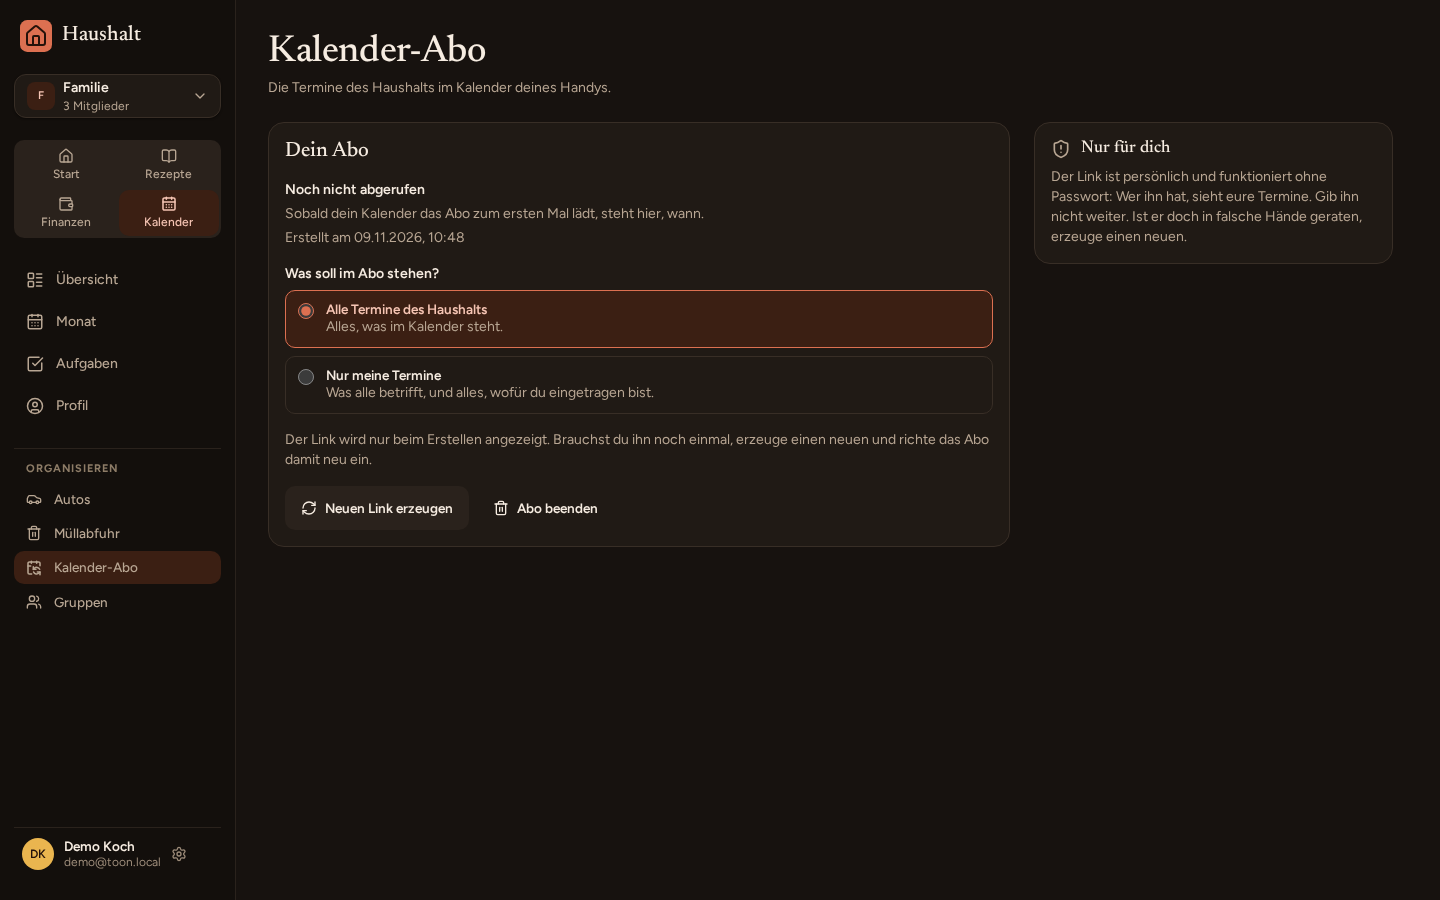
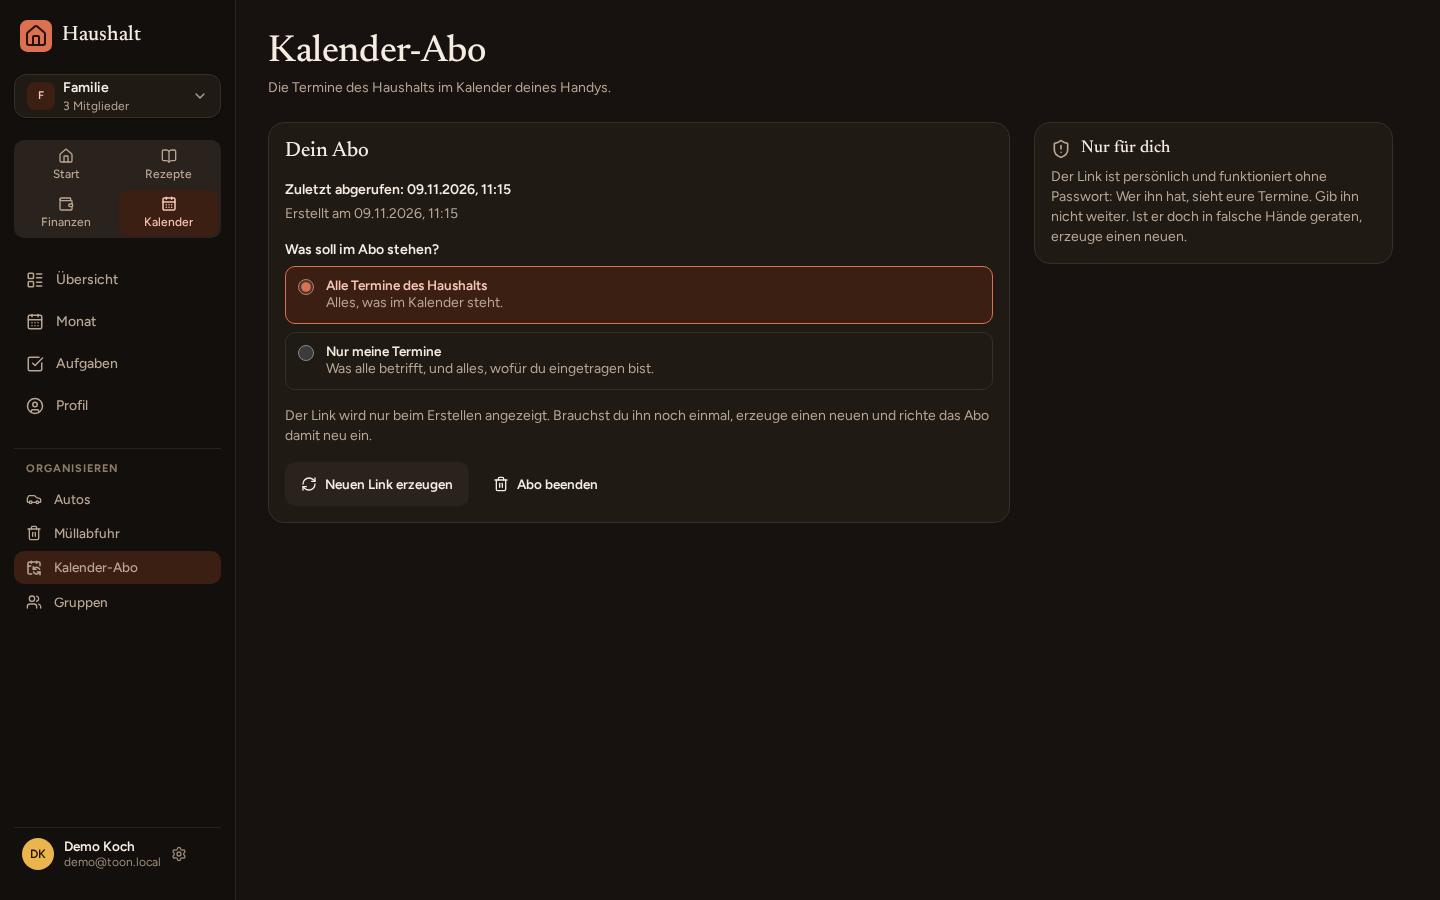
M9-ui: the UI check (plan section 9.7, item 12 of section 10), the re-shot screenshots plus the overview

Changed region(s): [[0.1875, 0.1867, 0.6875, 0.5911], [0.3438, 0.5289, 0.4062, 0.5911]]

diff --git a/docs/plans/m9-calendar-feed.md b/docs/plans/m9-calendar-feed.md
@@ -543,6 +543,52 @@ in 224 files** (84.2 s; +11 over section 9.5: the nine table rows and two route 
 leftover **148** (none in the calendar; exit 1 by design); `bun run build` exit 0, **102 chunks, 470.31 kB** of gzipped JS (unchanged,
 the fixes are API-only); `git status --porcelain repos/` empty.
 
+### 9.7 UI check (M9-ui, 2026-11-09)
+
+Scratch DB `file:<scratchpad>/ui/m9ui.db` (`NODE_ENV=development bun run seed` exit 0), `PUBLIC_API_URL="" bun run build` exit 0, the
+API with `WEB_DIST_DIR=./apps/web/dist`, `API_PORT=3902`, `WEB_ORIGIN=http://127.0.0.1:3902` (background, log, stopped by pid).
+Playwright 1.61.0 and ical.js 2.2.1 in a scratch directory outside the repo (`bun add` log `exit=0`), the installed
+`chromium_headless_shell-1248`, `locale: "de-DE"`, clipboard permissions granted, the login through `fetch("/api/auth/login")` from
+`/api/health` with one `storageState` per user.
+
+- **Flow as `demo@toon.local` (1440):** Kalender enabled through the Home card's "Aktivieren"; the Übersicht row "Kalender-Abo" and
+  the sidebar item (Organisieren) both land on `/calendar/feed`; "Nur meine Termine" + "Link erstellen" gives a field
+  `http://127.0.0.1:3902/api/calendar/feed/<43 chars>.ics`, the GET says `scope: "mine"`, the "Mit iPhone-Kalender verbinden" href is
+  `webcal://127.0.0.1:3902/api/calendar/feed/<token>.ics`; "Kopieren" puts exactly the URL on the clipboard with the toast "Link
+  kopiert."; the scope radio to "Alle Termine" saves (`scope: "all"`, toast); the URL fetched without a cookie answers `200
+  text/calendar; charset=utf-8`; "Neuen Link erzeugen" opens its confirm, and after it the OLD URL is `404` and the new one `200`;
+  "Abo beenden" (confirm) brings back "Link erstellen", the URL is `404` and the GET `{ feed: null }`. No console error.
+- **ical.js (scope all, plain `fetch`, no cookie):** parses without an error, one `VTIMEZONE` (`Europe/Berlin`) registered and
+  resolved by all 105 timed events (`Zahnarzt` 10:30 local = 09:30Z); one task occurrence marked done and one event occurrence
+  skipped first: 300 `VEVENT`s with 300 unique UIDs equal, UID for UID, the 300 non-skipped of the 301 occurrences `GET
+  …/calendar/occurrences` answers for `[2026-10-10, 2027-11-09]` (today in Berlin −30/+365), the skipped one absent, the done one
+  `✓ Blumen gießen · Demo Koch`; all 195 all-day events have `DATE` start and end.
+- **Scope mine as `kim@toon.local`** (own login, own link through the screen): `X-WR-CALNAME:Haushalt · Familie (meine Termine)`, 165
+  `VEVENT`s, equal to the occurrences that name nobody or Kim (tasks by the occurrence's resolved assignee, the 82 occurrences
+  assigned to someone else all absent) and equal to `?memberId=<kim>` minus the skipped one. After the fetch both screens show
+  "Zuletzt abgerufen: 09.11.2026, 11:14".
+- **Platform order:** iPhone UA and desktop: iPhone und iPad · Android und Samsung · Google Kalender im Browser · Outlook und Mac;
+  Android UA (`Android 14; SM-S921B`): Android und Samsung · Google Kalender im Browser · iPhone und iPad · Outlook und Mac.
+- **Screenshots** (16, `docs/plans/screenshots/m9/`): `feed-{none,created,existing}-{390,1440}-{light,dark}.png` (the existing state after
+  one fetch, so it shows "Zuletzt abgerufen"; the token in the created ones belongs to the deleted scratch DB) and the new
+  `overview-{390,1440}-{light,dark}.png`. Every one: `scrollWidth <= clientWidth` (390/390; 1425/1440 under the classic scrollbar
+  gutter) and no element beyond `innerWidth + 0.5`, `header[data-app-shell]` present (visible at 390, `lg:hidden` at 1440), no console
+  error (CSP included). Each looked at: no clipped text, the cards in two thirds/one third from `lg`, the URL field truncates inside its
+  card at 390. The tab bar in the middle of the 390 full-page shots and the sidebar ending at 900 px in the 1440 ones are the capture
+  of fixed/sticky elements, not the layout.
+- **Service worker:** `/api/calendar/feed/…` matches no runtime rule of `apps/web/vite.config.ts` (nothing cached) and is outside the
+  navigation fallback (`navigateFallbackDenylist` `/^\/api\//`); the app never fetches it. The request log printed 20 feed lines, all
+  `/api/calendar/feed/<redacted>.ics`.
+
+One defect, fixed (`2800d3856`): **the scope radio flickered back for a frame.** The radios read the chosen scope from the update
+mutation's pending variables, which arrive one task after the click (TanStack's notify scheduler), so React restored the controlled
+radio to the old scope in between; Playwright saw it unchecked right after the click. `FeedPage` now keeps the choice in its own state,
+set in the change handler after the offline guard and cleared in the mutate call's `onSettled` (after the hook's own `onSettled` has
+awaited the refetch); the pure `withChosenScope` (`apps/web/src/modules/calendar/features/feed/lib/state.ts`) applies it, three cases in
+`FeedView.test.tsx`. Re-run: checked right after the click and after it. Gates for it: `bun run typecheck` exit 0; `bun test
+apps/web/src/modules/calendar apps/web/src/styles` 150 pass, 0 fail (the design-system test included); `bun run build` exit 0;
+`git status --porcelain repos/` empty. The scratch server, DB and build inputs were removed.
+
 ## 10. What changed vs plan
 
 1. **P1 worktree paths:** `.worktrees/m9-api` and `.worktrees/m9-web` inside the repo (the run's task said so), not
@@ -571,3 +617,5 @@ the fixes are API-only); `git status --porcelain repos/` empty.
     collapsed and the prefix case-insensitive, because the router serves `/api//calendar/feed/…` and `/API/Calendar/Feed/…` too; the
     plan's literal prefix match leaked the token for those (section 9.6).
 11. No new server catalog key beyond T01's, no new error code, no change to `apps/web/vite.config.ts` (P18 confirmed by reading it).
+12. **P16 scope radio (M9-ui):** the shown scope comes from the page's own state set in the change handler (`withChosenScope`), not
+    from the mutation's pending variables, which arrive a task late and let the radio flicker back (section 9.7).
